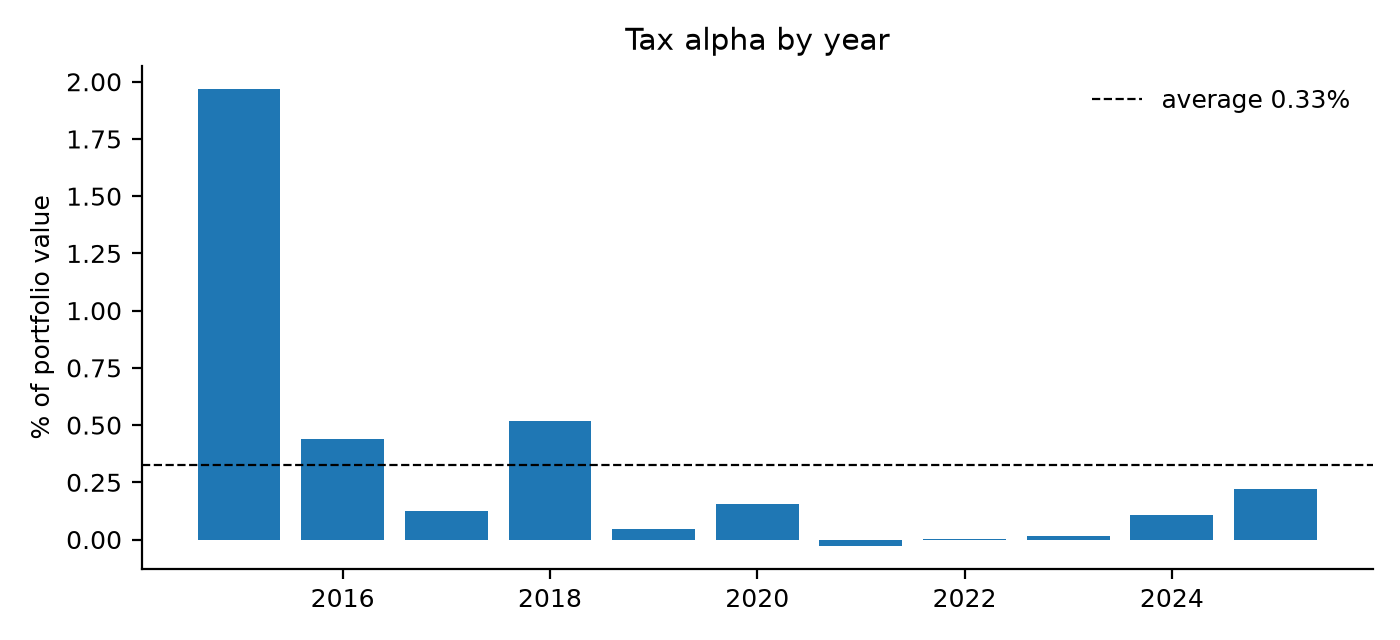
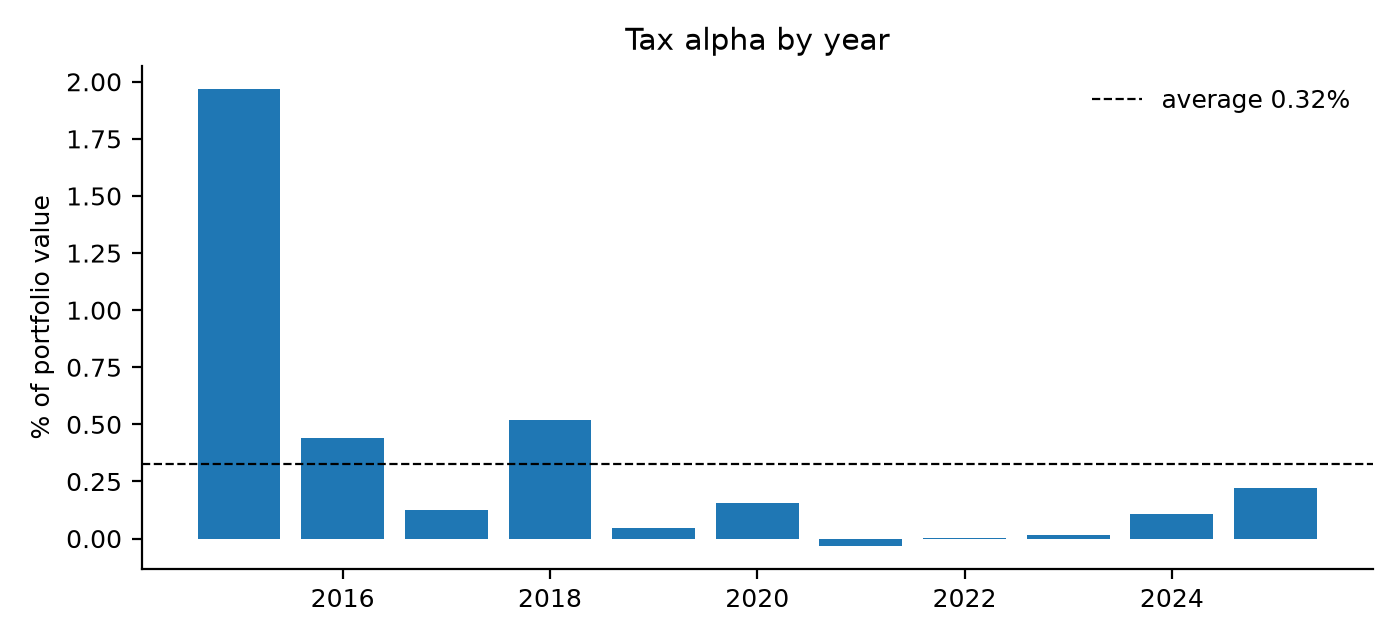
Turnover excludes the initial build from cash

diff --git a/src/metrics.py b/src/metrics.py
@@ -38,9 +38,14 @@ def tracking_error(r_port, r_bench):
 
 
 def turnover(trades, months):
-    """Yearly one-way turnover = (buys + sells) / 2 / average portfolio value."""
+    """Yearly one-way turnover = (buys + sells) / 2 / average portfolio value.
+
+    The first day's purchases build the portfolio from cash; they are not turnover.
+    """
     t = trades.copy()
-    t["year"] = pd.to_datetime(t["date"]).dt.year
+    t["date"] = pd.to_datetime(t["date"])
+    t = t[t["date"] > t["date"].min()]
+    t["year"] = t["date"].dt.year
     traded = t.groupby("year")["value"].sum() / 2
     avg = months["value"].groupby(months.index.year).mean()
     fees = t.groupby("year")["fee"].sum()
